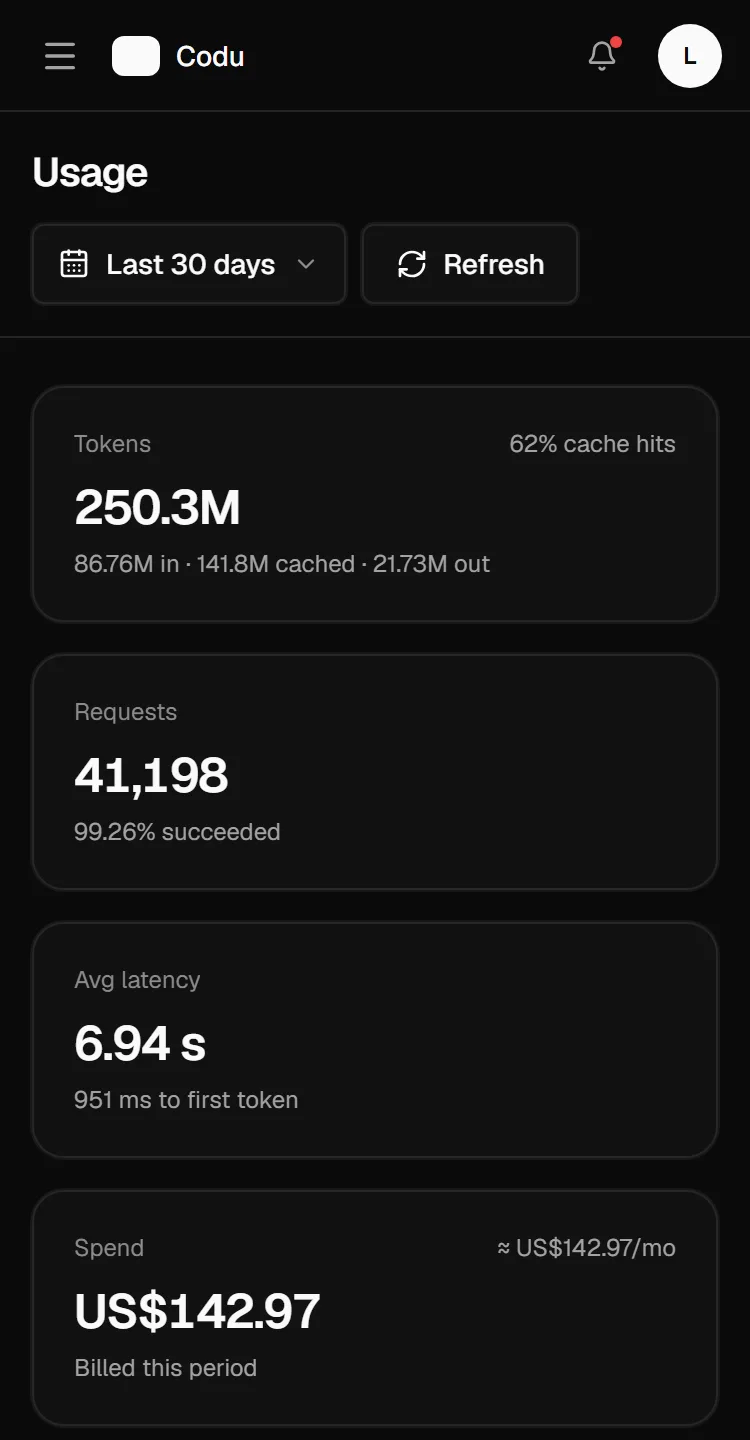
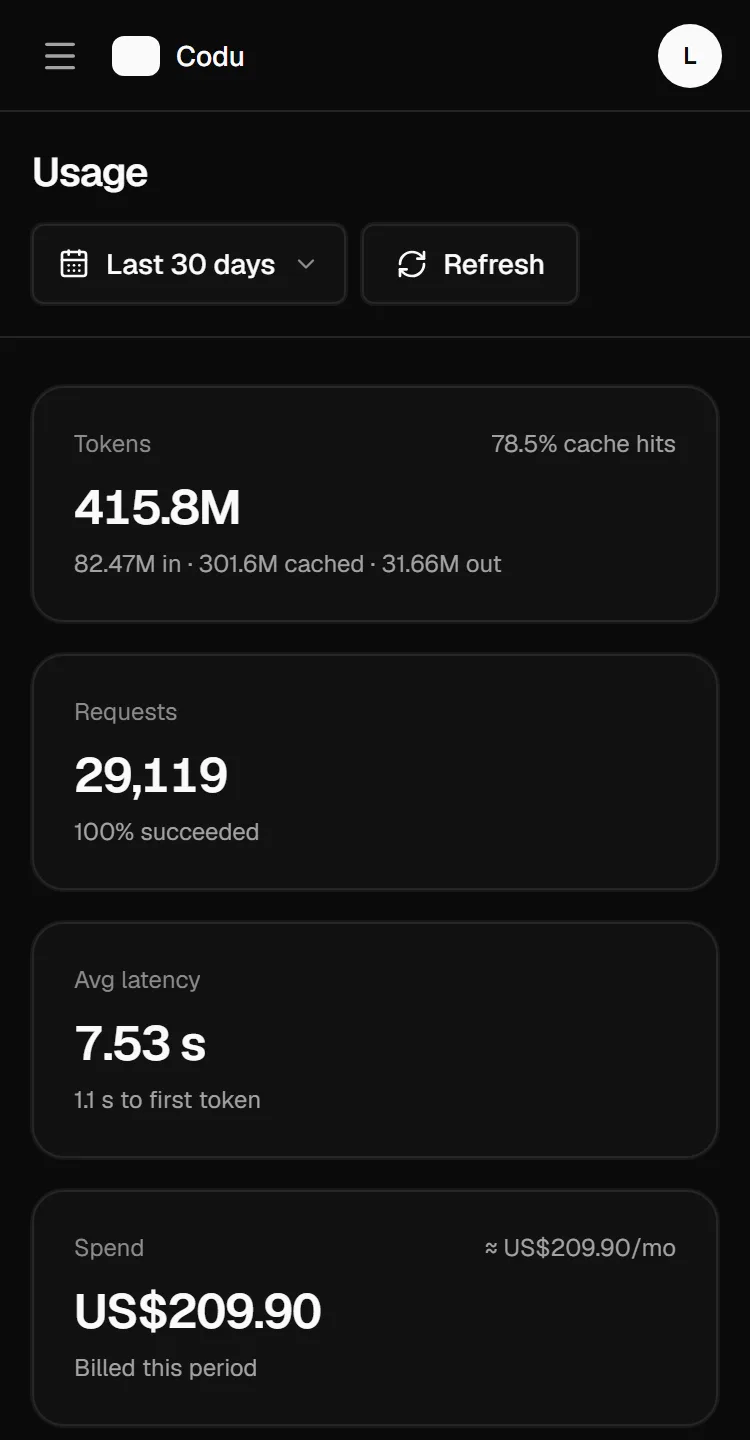
chore(site): reshoot the console screenshots on the homepage
The preview showed the old placeholder console with chat, tickets and the
bell. New shots use the live console with demo usage seeded for the shoot.

diff --git a/docs/模块设计/客户官网-首页.md b/docs/模块设计/客户官网-首页.md
@@ -19,7 +19,7 @@
 | 区块 | 对应模板 | 内容 |
 |---|---|---|
 | 首屏 | 首屏 | 生图 API 公告胶囊、两行大标题、副标题（模型数量来自后台，读不到时不写数字）、免费注册与查看价格 |
-| 控制台预览 | Acme Dashboard 截图 | 本站控制台「用量」页的真实截图（占位数据）：按语言、明暗主题、桌面与手机各一张 |
+| 控制台预览 | Acme Dashboard 截图 | 本站控制台「用量」页的真实截图（用量是演示数据）：按语言、明暗主题、桌面与手机各一张 |
 | 厂商标志 | Trusted by | 8 家模型厂商，四个一组轮换 |
 | 能力拼贴 | Packed with features | 文字生成图像、一个接口换模型、三种通道、协议与工具兼容（地球 + 跑马灯） |
 | 特性格 | 4×2 特性格 | 8 条能力，悬停竖条与底色 |
@@ -35,7 +35,7 @@
 ## 4. 当前实现
 
 - 首屏：服务端组件，纯 CSS 载入动画；公告胶囊链接到 `/catalog?type=image`；副标题模型数量来自后台（每次打开都用 60 秒缓存里的数据现做），读不到时换成不带数字的一句，桌面在语义处换行。
-- 控制台预览：控制台用量页截图（`public/home/console-{语言}-{主题}-{设备}.webp`，桌面 1280×860、手机 375×720，2 倍图，每张 25～95KB），`md` 起用桌面截图；两套主题都懒加载，只下载显示的那套；外框变窄时从左上角裁。截图由本机脚本 `.fleet/tools/shoot-home-preview.mjs` 登录测试账号后拍。
+- 控制台预览：控制台用量页截图（`public/home/console-{语言}-{主题}-{设备}.webp`，桌面 1280×860、手机 375×720，2 倍图，每张 25～95KB），`md` 起用桌面截图；两套主题都懒加载，只下载显示的那套；外框变窄时从左上角裁。截图由本机脚本 `.fleet/tools/shoot-home-preview.mjs` 登录测试账号后拍（截生产构建）。用量是演示数据：拍之前用 `.fleet/tools/home_demo_usage.py seed` 给测试账号补 3 月以来的调用记录（逐月增长、工作日多周末少；4 个主力模型加少量生图，用量图只给前 4 个模型配色，再多会并成灰色的「其他」），拍完 `clear` 删掉。
 - 厂商标志：共享标志轮换，8 家分两组每 3 秒换一组。
 - 能力拼贴：文字生成图像（6 条提示词记录 + 两张 AI 生成的黑白示例图）、一个接口换模型（手机样机 6 个气泡）、三种通道（每种通道一行：通道名 + 一句话定位 + 可点开关，不显示倍率与可用率承诺）、协议与工具（地球 + 3 行跑马灯胶囊）。
 - 特性格：8 格悬停竖条与渐变底色；模型瀑布流：后台各分组的模型三列纵向滚动、悬停暂停，每个模型一张卡、取最便宜的分组（别的分组更贵时价格后面写「起」），卡上是厂商与上下文、建了监测项的对话延迟与端点 PING、实付价与折扣（模型少于 12 个时每列放全部并重复，不露空档）；号召块：深蓝渐变加颗粒、白色主按钮。
@@ -65,3 +65,4 @@
 | 2026-10-06 | 跟随官网按分组展示：首屏模型数按不重复的模型算；模型瀑布流从「共享通道的模型」改为各分组的模型、每个模型一张卡取最便宜的分组，别的分组更贵时写「起」（英文 Input from / from） |
 | 2026-10-07 | 能力拼贴的通道面板跟随通道页：专用通道一句话定位改为「独立自营号池，适合团队和生产环境。」 |
 | 2026-10-07 | 特性格「可开发票」改说专用通道和企业通道可以开（非增值税发票） |
+| 2026-10-07 | 重拍首屏下方 8 张控制台截图：控制台接后台、首发隐藏对话 / 文档 / 通知铃铛后的样子，用量换成演示数据（拍完删掉） |

diff --git a/frontend-portal/DESIGN.md b/frontend-portal/DESIGN.md
@@ -393,7 +393,7 @@ pnpm format:check  # prettier
 | 通道卡权益清单、权益对比各项 | 用户 2026-10-07 给定（`groups.ts`）：共享通道：全部文本模型、全部生图模型、7 天内可退款、客服 24 小时在线、基础安全防护；专用通道：包含共享通道全部权益，另有 ChatGPT 专业通道、高可用 / 低延迟 / 不降智、专属客服 24 小时一对一、可开发票；企业通道：包含专用通道全部权益，另有可开发票（专用、企业两张卡都写）、定制安全防护、企业级管理功能、专属客户经理、可选私有化部署。RPM、并发、组织成员上限、客服响应时限这些编的数字同日删掉；可用率目标、可用率赔付、对公转账 2026-10-06 已去掉 |
 | 模型卡的可用率 | 2026-10-05 接后台「对外服务状态」（渠道监测）：对话延迟、端点 PING、近 7 天可用性、近 60 次探测；后台给模型建监测项（名称 = 模型名、分组标签 = 后台分组名）才有，没建的不显示 |
 | 人民币换算、按 Token 计费生图的每张估算 | 人民币按 1 美元 = 1 元（2026-10-05 用户定，和充值到账一致）；每张按 1290 Token 估算是**编的**，`pricing.ts` |
-| 首页控制台预览 | 控制台用量页的截图，数字是控制台的占位数据（**编的**），`public/home/console-*.webp` |
+| 首页控制台预览 | 控制台用量页的截图，数字是拍图时给测试账号补的演示用量（**编的**），`public/home/console-*.webp` |
 | 首页四张黑白示例图 | AI 生成（imagegen，gpt-image），`public/showcase/` |
 | 厂商标志 | lobehub icons（MIT），`public/providers/`；谷歌登录按钮标志 `public/brands/google.svg` |
 | 登录 | 2026-10-03 接通后端：`src/app/api/portal/auth/*` 转发、`src/lib/server/` 调后端与凭证 cookie、`src/lib/session/` 浏览器端登录状态、`src/proxy.ts` 拦截没登录的控制台访问（做法见技术设计 18.1） |

diff --git a/frontend-portal/design/首页.md b/frontend-portal/design/首页.md
@@ -54,7 +54,7 @@
 
 模板首屏下方那张「Acme Dashboard」截图的位置，放我们自己控制台「用量」页的真实截图（占位数据），不再用代码画。
 
-**截图**：`public/home/console-{zh|en}-{light|dark}-{desktop|mobile}.webp`，共 8 张，按 2 倍导出。桌面 1280×860、手机 375×720（CSS 像素，和组件里写的宽高一致）。由本机脚本 `.fleet/tools/shoot-home-preview.mjs` 从控制台拍：登录测试账号，关掉公告条，把侧栏和手机顶栏里的账号换成占位人名「林舟 / Lin Zhou、linzhou@example.com」。控制台改版后重拍。
+**截图**：`public/home/console-{zh|en}-{light|dark}-{desktop|mobile}.webp`，共 8 张，按 2 倍导出。桌面 1280×860、手机 375×720（CSS 像素，和组件里写的宽高一致）。由本机脚本 `.fleet/tools/shoot-home-preview.mjs` 从控制台拍：登录测试账号，关掉公告条，把侧栏和手机顶栏里的账号换成占位人名「林舟 / Lin Zhou、linzhou@example.com」。用量是演示数据：拍之前用 `.fleet/tools/home_demo_usage.py seed` 给测试账号补 3 月以来的调用记录（逐月增长、工作日多周末少；4 个主力模型加少量生图，用量图只给前 4 个模型配色，再多会并成灰色的「其他」），拍完 `clear` 删掉。控制台改版后重拍。
 
 **外层**（和原来一致）：`<section id="preview" className="relative pb-20 md:pb-28">` → `<Container>` → 外框 `<div data-console-preview className="relative mx-auto max-w-6xl rounded-[32px] border border-border bg-muted/70 p-2 shadow-card md:p-3">` → 画面 `<div className="relative h-[540px] overflow-hidden rounded-[24px] border border-border bg-card md:h-[620px]">`；外框底部渐隐层 `pointer-events-none absolute inset-x-0 bottom-0 h-2/5 rounded-b-[32px] bg-gradient-to-b from-transparent to-background`（`aria-hidden`）。
 
